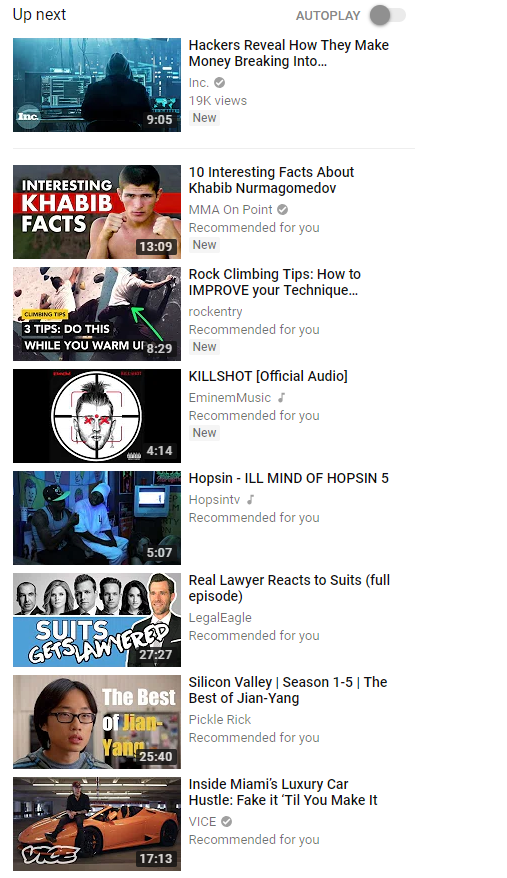
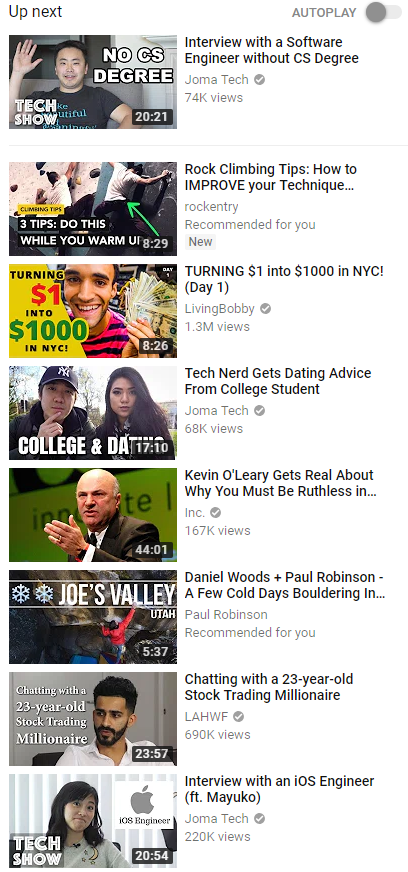
Add description and styling

diff --git a/src/components/Description.js b/src/components/Description.js
@@ -1,15 +1,56 @@
 import React from 'react';
 
 const descriptionStyle = {
-    gridArea: "description"
+  gridArea: "description",
+  borderBottom: "1px solid lightgray"
 }
+
+const videoInfoStyle = {
+  borderBottom: "1px solid lightgray"
+}
+
+const moreVideoInfoStyle = {
+  display: "flex",
+  justifyContent: "space-between"
+}
+
+const moreInfoLeft = {
+  display: "inline"
+}
+
+const moreInfoRight = {
+  display: "inline",
+  margin: " 0 5px"
+}
+
+const imageStyle = {
+  width: "50px",
+  float: "left",
+  borderRadius: "50%"
+}
+
 
 const Description = () => {
   return (
     <div style={descriptionStyle}>
+      
+      <div style={videoInfoStyle}>
+        <p>Who would win, 20 rabbits or a baby giraffe?</p>
+        <div style={moreVideoInfoStyle}>
+          <p style={moreInfoLeft}>1,151,512 views</p>
+          <span>
+            <p style={moreInfoRight}>More</p>
+            <p style={moreInfoRight}>Share</p>
+            <p style={moreInfoRight}>Dislike</p>
+            <p style={moreInfoRight}>Like</p>
+          </span>
+
+        </div>
+      </div>
       <div>
-          <p>Video Name</p>
-          <p>Video descriptions</p>
+      <img src="https://media.npr.org/assets/img/2016/03/29/ap_090911089838_sq-3271237f28995f6530d9634ff27228cae88e3440-s800-c85.jpg" style={imageStyle}/>
+        <p>The Video Author</p>
+        <p>Published March 1st, 2017</p>
       </div>
     </div>
   )

diff --git a/src/css/HomeBody.css b/src/css/HomeBody.css
@@ -1,11 +1,12 @@
 .mainBodyStyle {
-    padding: 0 50px;
+    padding: 0 10%;
     display: grid;
     grid-template-areas:
         "video recommendations"
         "description recommendations"
         "comments recommendations";
-    grid-template-columns: 80% 20%;
+    grid-template-columns: 75% 25%;
     grid-template-rows: repeat(3, auto);
-    grid-gap: 10px;
+    grid-gap: 20px;
+    margin-top: 30px;
 }

diff --git a/src/components/Recommendations.js b/src/components/Recommendations.js
@@ -4,10 +4,14 @@ const recommendationsStyle = {
     gridArea: "recommendations"
 }
 
+const recStyle = {
+    width: "100%"
+}
+
 const Recommendations = () => {
   return (
     <div style={recommendationsStyle}>
-      
+      <img src={require('../assets/recs.PNG')} style={recStyle} />
     </div>
   )
 }

diff --git a/src/components/Video.js b/src/components/Video.js
@@ -5,7 +5,7 @@ const videoStyle = {
 }
 
 const playerStyle = {
-    width: "80%"
+    width: "100%"
 }
 
 const Video = () => {
